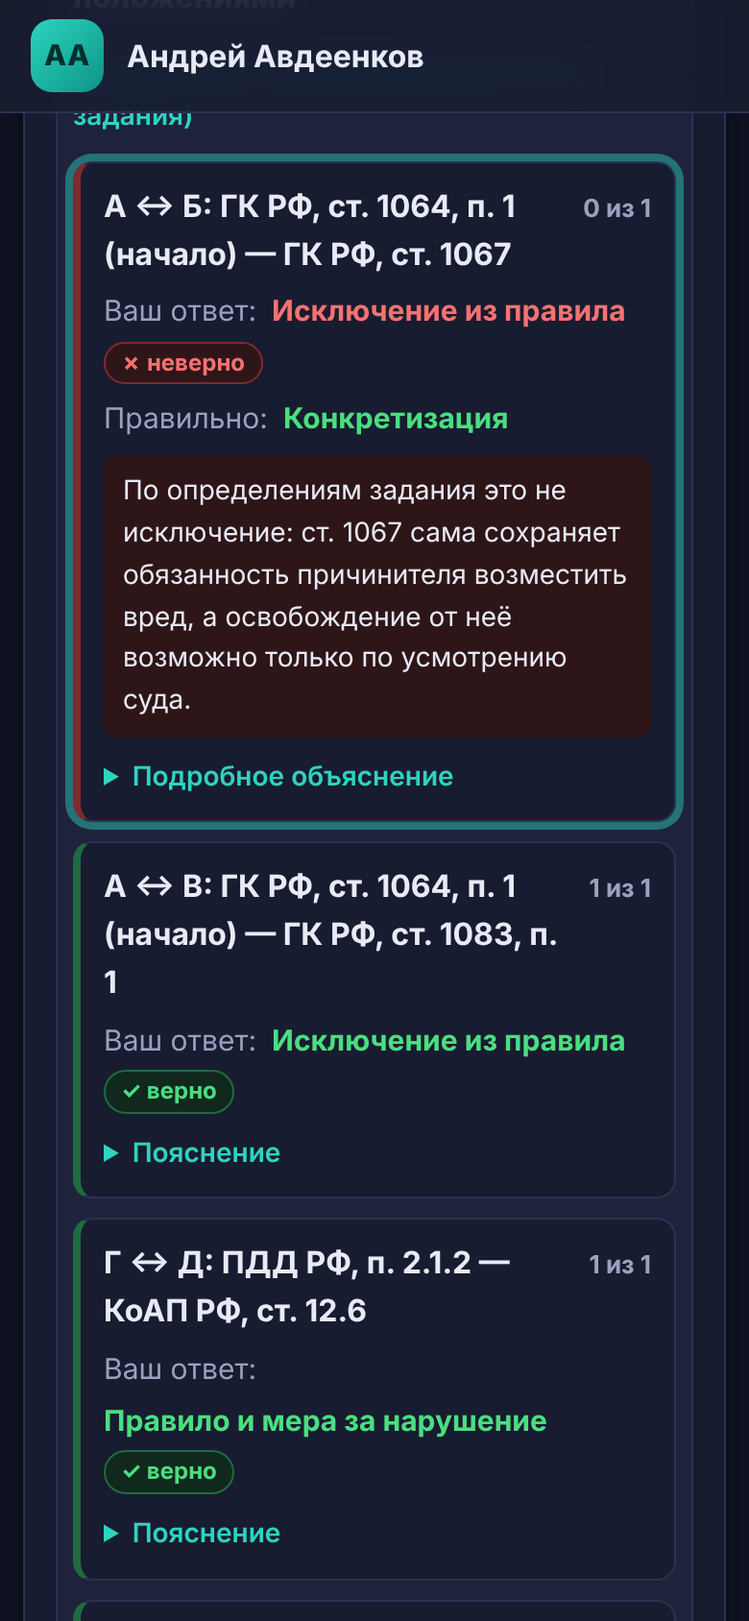
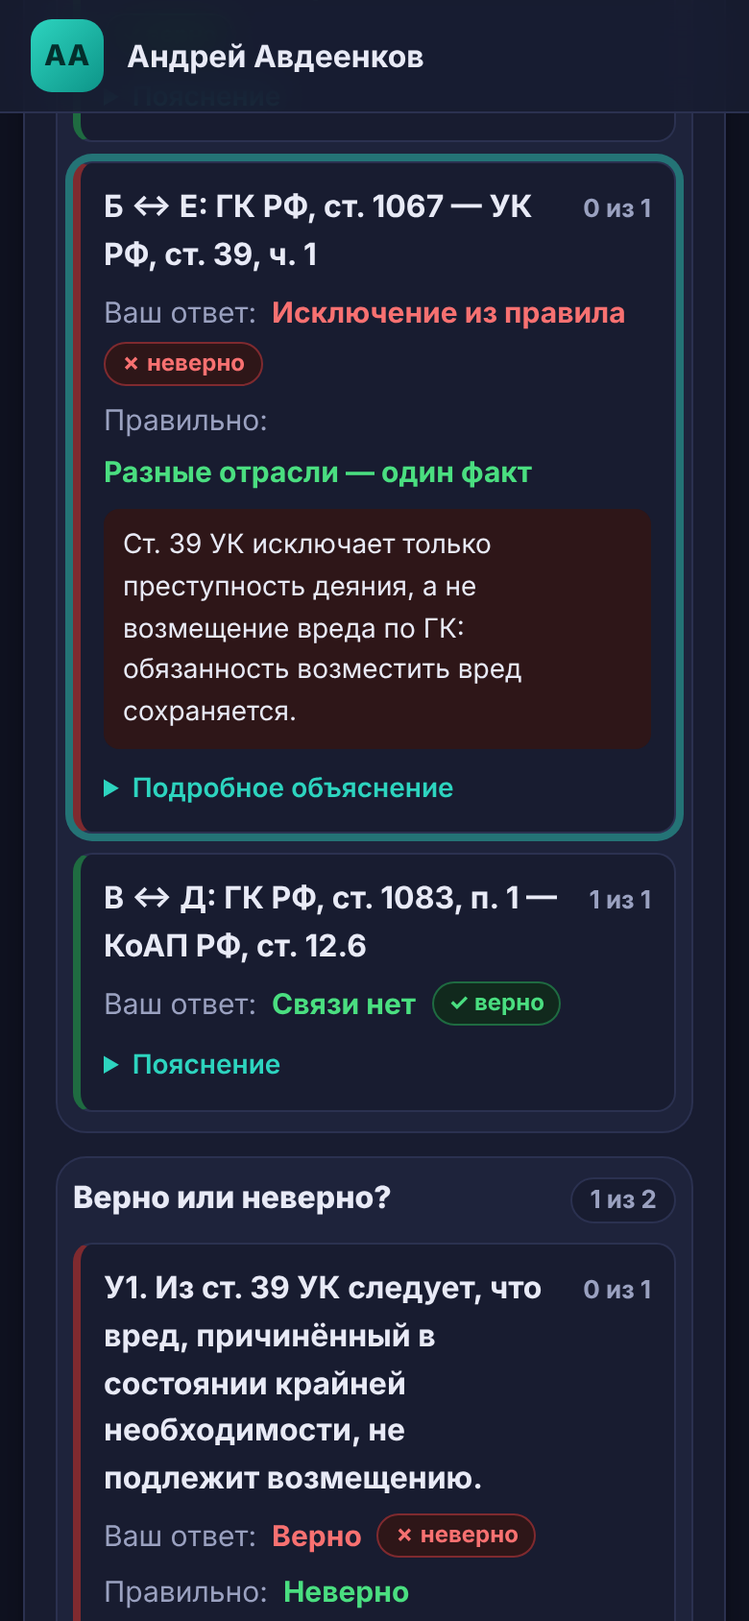
Практикум «Норма права»: правки по решениям после четвёртого этапа
- карта связей: пояснение об авторской типологии и порядке как условии
  упражнения (relationsNote обязателен при упорядоченном правиле);
  пара ст. 1064 — ст. 1067 убрана из автоматической проверки;
- ст. 91 ч. 2 и ст. 8 ч. 4 ТК: уточнённые объяснения, механизм неприменения;
- оценка доводов: единый критерий «обосновывает» — достаточность;
- составное задание: вопрос о превышении законного максимума в графике
  вместо «сверхурочных часов»;
- задание по ст. 89 СК переименовано в IV-9 (номер IV-4 занят).

Claude-Session: https://claude.ai/code/session_01DtU1BYdzbcua2RQZXHQm1D

diff --git a/demo/law-nrm-demo.js b/demo/law-nrm-demo.js
@@ -1198,6 +1198,7 @@ OLY.addTasks([
     tags: ['карта связей', 'общая и специальная норма', 'исключение', 'регулятивная и охранительная норма', 'межотраслевые связи'],
     type: 'link-map',
     question: 'Определите вид связи между положениями в каждой паре.',
+    relationsNote: 'Семь видов связи — авторская учебная типология этого упражнения, а не общепринятая юридическая классификация. Порядок проверки — условие упражнения, нужное для однозначного ответа: в реальной юридической квалификации одна пара норм может быть связана сразу несколькими способами, и ни один порядок не является универсальным.',
     legal: [
       { id: 'gk-1064', role: 'main', act: 'ГК РФ', ref: 'ст. 1064, п. 1 (начало)', verified: false,
         fragments: [{ text: 'Вред, причиненный личности или имуществу гражданина, а также вред, причиненный имуществу юридического лица, подлежит возмещению в полном объеме лицом, причинившим вред. […]' }] },
@@ -1226,21 +1227,6 @@ OLY.addTasks([
     ],
     none: 6,
     pairs: [
-      {
-        id: 'p1', a: 'gk-1064', b: 'gk-1067', key: [4],
-        wrong: {
-          3: {
-            short: 'По определениям задания это не исключение: ст. 1067 сама сохраняет обязанность причинителя возместить вред, а освобождение от неё возможно только по усмотрению суда.',
-            full: 'Исключение в этом задании — норма, которая сама устанавливает последствие, противоположное общему правилу (как п. 1 ст. 1083: вред «возмещению не подлежит»). Ст. 1067 начинается с того же правила, что и п. 1 ст. 1064: вред «должен быть возмещен лицом, причинившим вред». Возможность освободить от возмещения дана суду с учётом обстоятельств — это отступление по усмотрению правоприменителя, которое определение конкретизации прямо охватывает. Границы интерпретации: в литературе ст. 1067 иногда характеризуют как исключение из отдельных принципов деликтной ответственности (например, ответственности за вину или противоправного характера вреда); при иных определениях видов связи такая квалификация возможна. Здесь определения заданы в условии.'
-          },
-          2: 'Ни одно из положений не устанавливает меру принуждения за нарушение правила другого.',
-          1: 'Ст. 1067 определяет крайнюю необходимость, но этого понятия нет в п. 1 ст. 1064.',
-          0: 'Ни одно положение не указывает на другое прямо.',
-          5: 'Обе нормы — гражданского права.',
-          6: 'Связь есть: ст. 1067 регулирует частный случай причинения вреда, охватываемый п. 1 ст. 1064.'
-        },
-        explanation: 'Ст. 1067 — специальная норма для вреда, причинённого в крайней необходимости: она сохраняет последствие п. 1 ст. 1064 (вред возмещает причинитель), но позволяет суду переложить обязанность на третье лицо или освободить от неё. Последствие общей нормы сохраняется по общему правилу, поэтому это конкретизация, а не исключение.'
-      },
       {
         id: 'p2', a: 'gk-1064', b: 'gk-1083', key: [3],
         wrong: {
@@ -1330,9 +1316,9 @@ OLY.addTasks([
         ]
       }
     ],
-    explanation: 'Ст. 1067 конкретизирует общее правило п. 1 ст. 1064, а п. 1 ст. 1083 — исключение из него. П. 2.1.2 ПДД и ст. 12.6 КоАП — правило и мера за его нарушение. Ч. 2 ст. 39 УК определяет понятие, которое использует ч. 1. Ст. 1067 ГК и ст. 39 УК — нормы разных отраслей об одном факте: непреступность деяния не отменяет обязанности возместить вред.',
-    typicalMistake: 'Считать, что ст. 39 УК освобождает и от возмещения вреда; принять ст. 1067 за исключение из ст. 1064.',
-    scoring: { maxPoints: 8, rule: 'components', basis: 'author' }
+    explanation: 'П. 1 ст. 1083 ГК — исключение из общего правила п. 1 ст. 1064 о возмещении вреда. П. 2.1.2 ПДД и ст. 12.6 КоАП — правило и мера за его нарушение. Ч. 2 ст. 39 УК определяет понятие, которое использует ч. 1. Ст. 1067 ГК и ст. 39 УК — нормы разных отраслей об одном факте: непреступность деяния не отменяет обязанности возместить вред.',
+    typicalMistake: 'Считать, что ст. 39 УК освобождает и от возмещения вреда; принять исключение (ст. 1083) за конкретизацию.',
+    scoring: { maxPoints: 7, rule: 'components', basis: 'author' }
   },
   {
     id: 'DEMO-LAW-NRM-009',
@@ -1515,7 +1501,7 @@ OLY.addTasks([
               },
               2: 'Поощрительные нормы устанавливают меры поощрения за полезное поведение; здесь их нет.'
             },
-            explanation: 'Императивная: предел в 40 часов нельзя превысить ни соглашением сторон, ни локальным актом. В литературе такие нормы называют «нормами-максимумами» (иногда — относительно-императивными); в классификации лекции это императивная норма. Договор Ивановой о 36 часах не отступает от нормы, а укладывается в её предел.'
+            explanation: 'Ч. 2 ст. 91 ТК — императивная норма, устанавливающая максимальную нормальную продолжительность рабочего времени: предел в 40 часов нельзя превысить ни соглашением сторон, ни локальным актом. Установление меньшей продолжительности (как в договоре Ивановой) не отступает от нормы, а укладывается в её предел.'
           },
           {
             id: 'a-nature', short: 'П. 4.1 ПВТР',
@@ -1546,14 +1532,15 @@ OLY.addTasks([
         id: 'B', title: 'Часть Б. Краткие ответы', kind: 'short',
         items: [
           {
-            id: 'b-hours', short: 'Часы', kind: 'number',
-            label: 'Если бы Сидоров работал 42 часа в неделю по п. 4.1 ПВТР, сколько часов в неделю были бы сверхурочной работой?',
+            id: 'b-hours', short: 'Превышение', kind: 'number',
+            label: 'На сколько часов в неделю график по п. 4.1 ПВТР превышает законный максимум нормальной продолжительности рабочего времени?',
             key: 2,
             wrong: {
-              '0': 'Работа сверх нормальной продолжительности (40 часов), выполняемая по инициативе работодателя, — сверхурочная, даже если её требует локальный акт.',
-              '42': 'Сверхурочной считается только работа за пределами нормальной продолжительности, а не вся неделя.'
+              '0': 'График превышает законный максимум: 42 часа по ПВТР против не более 40 по ст. 91 ч. 2 ТК.',
+              '42': 'Спрашивается о превышении законного максимума, а не обо всей продолжительности по ПВТР.',
+              '40': '40 часов — сам законный максимум; спрашивается, на сколько график его превышает.'
             },
-            explanation: 'Нормальная продолжительность — не более 40 часов; 2 часа сверх неё — сверхурочная работа.'
+            explanation: '42 − 40 = 2 часа. Это превышение законного максимума в графике, а не выполненная сверхурочная работа: сверхурочной (ст. 99 ТК) считается работа, фактически выполненная по инициативе работодателя за пределами установленной продолжительности рабочего времени. Сидоров такой работы не выполнял — он работал 40 часов в неделю.'
           },
           {
             id: 'b-article', short: 'Статья', kind: 'article',
@@ -1581,7 +1568,7 @@ OLY.addTasks([
               2: 'Неприменение наступает в силу закона, а не после отмены судом.',
               3: 'Учёт мнения профсоюза — отдельное условие. Норма, ухудшающая положение работников по сравнению с законом, не применяется независимо от него.'
             },
-            explanation: 'П. 4.1 ухудшает положение работников по сравнению со ст. 91 ч. 2 ТК, поэтому по ст. 8 ч. 4 не подлежит применению; применяется трудовое законодательство.'
+            explanation: 'П. 4.1 ухудшает положение работников по сравнению со ст. 91 ч. 2 ТК, поэтому по ст. 8 ч. 4 не подлежит применению; вместо него применяется закон. Механизм неприменения: (1) норму локального акта сравнивают с законом и иными актами, содержащими нормы трудового права, коллективным договором, соглашениями; (2) если она ухудшает положение работников, она не подлежит применению — в силу самого закона, без отмены акта или решения суда; формально норма остаётся в тексте ПВТР; (3) вместо неё применяется норма закона (здесь — ст. 91 ч. 2 ТК). Отдельное основание неприменения — несоблюдение порядка учёта мнения представительного органа работников (ст. 372); здесь оно соблюдено, но это не спасает ухудшающую норму.'
           },
           {
             id: 'c-role', short: 'Роль ст. 8 ч. 4',
@@ -1593,7 +1580,7 @@ OLY.addTasks([
               2: 'Декларативные нормы провозглашают цели и задачи; ст. 8 ч. 4 устанавливает конкретное правило выбора нормы.',
               3: 'Учредительные нормы закрепляют основы общественного строя; ст. 8 ч. 4 к ним не относится.'
             },
-            explanation: 'Ст. 8 ч. 4 разрешает противоречие между нормой локального акта и законом в пользу закона — коллизионная норма.'
+            explanation: 'В рамках лекционной классификации ст. 8 ч. 4 — коллизионная норма: она разрешает противоречие между нормой локального акта и законом (иными актами, содержащими нормы трудового права, коллективным договором, соглашением). Механизм: ухудшающая норма локального акта не отменяется, а не подлежит применению — в силу закона, без решения суда; вместо неё применяется норма закона. Норма действует только в одну сторону: улучшающие положение работников локальные нормы применяются.'
           }
         ]
       },
@@ -1609,20 +1596,20 @@ OLY.addTasks([
         conclusion: 'Выговор Сидорову объявлен неправомерно.',
         arguments: [
           {
-            id: 'd1', text: 'Сидоров работал в пределах нормальной продолжительности рабочего времени (40 часов); работа сверх неё по инициативе работодателя — сверхурочная и допускается только в случаях и порядке, установленных ТК.',
+            id: 'd1', text: 'Сидоров трудовых обязанностей не нарушал: он работал в пределах законного максимума (40 часов), норма ПВТР о 42 часах к нему не применяется, а без неисполнения обязанностей нет дисциплинарного проступка.',
             key: { truth: 0, link: 0 },
             wrong: {
               truth: {
                 1: 'По условию Сидоров работает 40 часов в неделю.',
-                2: 'Это верно: нормальная продолжительность — не более 40 часов (ст. 91 ч. 2), работа сверх неё по инициативе работодателя — сверхурочная.'
+                2: 'Это верно: нормальная продолжительность — не более 40 часов (ст. 91 ч. 2), ухудшающая норма ПВТР не применяется (ст. 8 ч. 4), а дисциплинарный проступок — это неисполнение обязанностей (ст. 192 ч. 1).'
               },
               link: {
-                1: 'Довод обосновывает вывод: если обязанности работать 42 часа нет, уход через 8 часов не является неисполнением трудовых обязанностей, а значит, нет дисциплинарного проступка.',
+                1: 'Довод достаточен сам по себе: он содержит всю цепочку — законный максимум, неприменение нормы ПВТР и отсутствие проступка. Других доводов для вывода не нужно.',
                 2: 'Довод подтверждает, а не опровергает вывод.',
                 3: 'Довод относится к главному вопросу — была ли у Сидорова обязанность работать дольше.'
               }
             },
-            explanation: 'Обязанности работать 42 часа у Сидорова не было: п. 4.1 ПВТР не применяется, а работа сверх нормальной продолжительности — сверхурочная. Значит, нет неисполнения трудовых обязанностей — нет дисциплинарного проступка.'
+            explanation: 'Довод содержит всю цепочку: обязанности работать 42 часа нет (п. 4.1 ПВТР не применяется), значит, уход через 8 часов не является неисполнением трудовых обязанностей и дисциплинарного проступка нет. Приняв его и факты условия, можно сделать вывод без других доводов — поэтому «обосновывает».'
           },
           {
             id: 'd2', text: 'П. 4.1 ПВТР обязателен для Сидорова, потому что Правила приняты с учётом мнения профсоюзной организации.',
@@ -1654,7 +1641,7 @@ OLY.addTasks([
                 3: 'Довод относится к вопросу: он называет условие правомерности выговора.'
               }
             },
-            explanation: 'Довод верен и относится к вопросу: он называет условие дисциплинарной ответственности. Но вывод из него следует только вместе с доводом о том, что обязанности работать 42 часа не было.'
+            explanation: 'Довод верен и относится к вопросу: он называет условие дисциплинарной ответственности. Но вывод из него следует только вместе с анализом того, была ли у Сидорова обязанность работать 42 часа (довод 1), — сам по себе он вывод не обосновывает.'
           },
           {
             id: 'd4', text: 'Сидоров ежедневно уходил с работы через 8 часов.',
@@ -1707,7 +1694,7 @@ OLY.addTasks([
         ]
       }
     ],
-    explanation: 'Ст. 91 ч. 2 ТК — императивная норма-максимум. П. 4.1 ПВТР — локальная норма права, но она ухудшает положение работников по сравнению с законом и по ст. 8 ч. 4 не подлежит применению (коллизионная норма); применяется ст. 91 ч. 2. Работа сверх 40 часов по инициативе работодателя — сверхурочная (ст. 99 ТК). Значит, Сидоров обязанности не нарушал, дисциплинарного проступка нет, выговор неправомерен.',
+    explanation: 'Ст. 91 ч. 2 ТК — императивная норма-максимум. П. 4.1 ПВТР — локальная норма права, но она ухудшает положение работников по сравнению с законом и по ст. 8 ч. 4 не подлежит применению (коллизионная норма); применяется ст. 91 ч. 2. Работа, фактически выполненная сверх 40 часов по инициативе работодателя, была бы сверхурочной (ст. 99 ТК); сам по себе график с 42 часами такой работы не создаёт. Сидоров работал в пределах законного максимума, обязанности не нарушал, дисциплинарного проступка нет, выговор неправомерен.',
     typicalMistake: 'Считать ст. 91 ч. 2 диспозитивной из-за 36-часовой недели Ивановой; считать учёт мнения профсоюза достаточным для применения ухудшающей нормы.',
     scoring: { maxPoints: 19, rule: 'components', basis: 'author' }
   }

diff --git a/js/olymp/types/argument-check.js b/js/olymp/types/argument-check.js
@@ -9,6 +9,9 @@
  *   2) связь с выводом — оценивается так, как если бы довод был верен:
  *      обосновывает вывод; относится к вопросу, но сам вывод не обосновывает;
  *      опровергает вывод (обосновывает противоположный); не относится к вопросу.
+ *      Критерий «обосновывает» — достаточность: принятый довод вместе с фактами условия
+ *      ведёт к выводу без других доводов. Довод, который лишь поддерживает вывод в ряду
+ *      других, — «относится, но сам вывод не обосновывает» (определения — LINK[i].definition).
  * Так различаются три свойства довода: правильность, относимость к вопросу и
  * способность обосновать конкретный вывод. Решения не зависят друг от друга,
  * поэтому одна ошибка не снимает баллы дважды.
@@ -46,10 +49,14 @@
     { label: 'Неверен: противоречит праву или теории', short: 'Неверен (право)' }
   ];
   var LINK = [
-    { label: 'Обосновывает вывод', short: 'Обосновывает' },
-    { label: 'Относится к вопросу, но сам вывод не обосновывает', short: 'Относится, недостаточен' },
-    { label: 'Опровергает вывод (обосновывает противоположный)', short: 'Опровергает' },
-    { label: 'Не относится к вопросу', short: 'Не относится' }
+    { label: 'Обосновывает вывод', short: 'Обосновывает',
+      definition: 'довод достаточен сам по себе: если принять его, то вместе с фактами условия и общими определениями теории права вывод следует без других доводов и без дополнительного анализа ситуации' },
+    { label: 'Относится к вопросу, но сам вывод не обосновывает', short: 'Относится, недостаточен',
+      definition: 'довод касается вопроса и может быть одним из аргументов в пользу вывода (или против него), но вывод следует из него только вместе с другими доводами — или не следует вовсе' },
+    { label: 'Опровергает вывод (обосновывает противоположный)', short: 'Опровергает',
+      definition: 'если принять довод, то вместе с фактами условия и общими определениями теории права следует противоположный вывод' },
+    { label: 'Не относится к вопросу', short: 'Не относится',
+      definition: 'от истинности довода ответ на вопрос не зависит' }
   ];
 
   function isIndex(v, n) { return Number.isInteger(v) && v >= 0 && v < n; }

diff --git a/js/olymp/ui/views/arguments.js b/js/olymp/ui/views/arguments.js
@@ -26,9 +26,10 @@
     d.appendChild(el('summary', null, 'Как оценивать довод'));
     [
       'Правильность: соответствует ли довод фактам ситуации и праву (тексту нормы, теории). Если неверен — укажите, что именно он нарушает.',
-      'Связь с выводом оценивается так, как если бы довод был верен. «Обосновывает» — из довода следует вывод. «Относится, но сам вывод не обосновывает» — довод касается вопроса, но его недостаточно или он не решает вопрос. «Опровергает» — из довода следует противоположное. «Не относится» — от довода ответ на вопрос не зависит.',
+      'Связь с выводом оценивается так, как если бы довод был верен. Главный критерий — достаточность: можно ли, приняв этот довод, факты условия и общие определения теории права, сделать вывод, не опираясь на другие доводы и не проводя дополнительного анализа ситуации.'
+    ].concat(A.LINK.map(function (l) { return '«' + l.label + '» — ' + l.definition + '.'; })).concat([
       'Баллы: по 1 за правильность и за связь с выводом у каждого довода. Решения независимы: ошибка в одном не снимает балл за другое. Если довод верно признан неверным, но указано не то основание (факты вместо права или наоборот), — ½.'
-    ].forEach(function (t) { d.appendChild(el('p', 'nrm-more__text', t)); });
+    ]).forEach(function (t) { d.appendChild(el('p', 'nrm-more__text', t)); });
     return d;
   }
 

diff --git a/js/olymp/types/link-map.js b/js/olymp/types/link-map.js
@@ -12,6 +12,7 @@
  *   legal: [{ id: 'gk-1064', role: 'main' | 'reference', act, ref, verified, fragments }],
  *   relations: [{ label: 'Исключение из общего правила', definition: '…' }, …],   // 3–8
  *   none: 6,                              // номер вида «связи нет»
+ *   relationsNote?: '…',                 // пояснение о статусе типологии и порядка (показывается в условии)
  *   ordered?: true,                       // упорядоченное правило: выбирается первый подходящий вид —
  *                                         // так виды связи взаимно исключают друг друга
  *   pairs: [{ id, a: 'gk-1064', b: 'gk-1083', key: [3], partial?, wrong: {…}, explanation }],
@@ -67,6 +68,8 @@
     if (!Number.isInteger(task.none) || !task.relations[task.none]) errors.push('none — номер вида «связи нет» в relations');
     else if (task.ordered === true && task.none !== task.relations.length - 1) errors.push('при упорядоченном правиле «связи нет» — последний вид');
     if (task.ordered !== undefined && typeof task.ordered !== 'boolean') errors.push('ordered — true или false');
+    if (task.relationsNote !== undefined && !R.isText(task.relationsNote)) errors.push('relationsNote — строка');
+    if (task.ordered === true && !R.isText(task.relationsNote)) errors.push('при упорядоченном правиле нужно relationsNote — объяснить ученику, что порядок — условие упражнения');
     if (!Array.isArray(task.pairs) || task.pairs.length < 2) return errors.concat('pairs — не меньше двух пар');
     task.pairs.forEach(function (pair, i) {
       var name = 'pairs[' + i + ']';

diff --git a/js/olymp/ui/views/links.js b/js/olymp/ui/views/links.js
@@ -58,8 +58,9 @@
     var d = el('details', 'nrm-more nrm-rel-help');
     d.open = true;
     d.appendChild(el('summary', null, 'Виды связи (определения для этого задания)'));
+    if (task.relationsNote) d.appendChild(el('p', 'nrm-more__text nrm-rel-note', task.relationsNote));
     if (task.ordered) {
-      d.appendChild(el('p', 'nrm-more__text', 'Проверяйте виды связи по порядку и выбирайте первый подходящий — так ответ однозначен, даже если пара формально подходит под два вида.'));
+      d.appendChild(el('p', 'nrm-more__text', 'В этом упражнении проверяйте виды связи по порядку и выбирайте первый подходящий — так ответ однозначен, даже если пара формально подходит под два вида.'));
     }
     var dl = el('dl', 'nrm-rel-list');
     task.relations.forEach(function (r, i) {

diff --git a/docs/drafts/pr-law-nrm-spec.md b/docs/drafts/pr-law-nrm-spec.md
@@ -30,7 +30,7 @@
 | 9 | М1: модель К / Т / Р — утверждена | § 4.1 |
 | 10 | М2: типология ошибок — содержательный тип и происхождение оцениваются раздельно | § 3.4 |
 | 11 | М3: анализ по отдельно заданным подходам; М4: неоднозначные классификации не оцениваются | § 2.3, § 3.2 |
-| 12 | М5: ориентир 84 мин (после замены части В в V-2 на IV-4 — ≈87 мин, в пределах 75–90) с проверкой на учениках; М7: блоки доступны сразу, порядок рекомендуется; М8: ключи в клиентском коде допустимы | § 6 |
+| 12 | М5: ориентир 84 мин (после замены части В в V-2 на IV-9 — ≈87 мин, в пределах 75–90) с проверкой на учениках; М7: блоки доступны сразу, порядок рекомендуется; М8: ключи в клиентском коде допустимы | § 6 |
 | 13 | Распознавание рассуждения проверяется сейчас; самостоятельное построение аргумента — отложено | § 1.1, § 7 |
 | 14 | Отвлекающие варианты и независимость элементов — по правилам § 3.5; порядок заданий — без перекрёстных подсказок (§ 6.7) | § 3.5, § 6.7 |
 
@@ -131,8 +131,8 @@
 | **Ф3** | **Краткий самостоятельный ответ** | вводит номер статьи, число, термин | совпадение после нормализации (§ 3.3) | пустое поле; ответы закрытые и однозначные |
 | **Ф4** | **Систематизация** | распределяет фрагменты нескольких актов (или правила) по ролям или категориям; определения категорий даются в условии | роль или категория каждой позиции | вариантов больше, чем позиций; роли повторяются; есть «не относится». Категории — по одному основанию или с явно заданным двухшаговым критерием (например: норма или индивидуальный правовой акт → вид нормы) |
 | **Ф5** | **Поиск ошибки** | отмечает ошибочные шаги; для каждого указывает происхождение ошибки и её содержательный тип; собирает корректное утверждение | отмеченные шаги; происхождение (и шаг с исходной ошибкой); содержательный тип; слоты конструктора | верные шаги — ловушки; происхождение и тип — два независимых решения (§ 3.4) |
-| **Ф6** | **Карта связей** | для пар положений определяет вид связи по определениям и упорядоченному правилу из условия | вид связи для каждой пары | 7 видов связи, включая «связи нет»; взаимоисключаемость — упорядоченным правилом и разграничивающими признаками (таблица: `pr-law-nrm-links-table.md`) |
-| **Ф7** | **Оценка доводов** | для каждого довода принимает два независимых решения: (1) правильность — верен / неверен по фактам / неверен по праву или теории; (2) связь с выводом при допущении, что довод верен, — обосновывает / относится, но сам вывод не обосновывает / опровергает / не относится | оба решения по каждому доводу | различаются правильность, относимость и способность обосновать вывод; 3 × 4 = 12 сочетаний на довод; решения независимы — одна ошибка не снимает балл дважды |
+| **Ф6** | **Карта связей** | для пар положений определяет вид связи по определениям и упорядоченному правилу из условия | вид связи для каждой пары | 7 видов связи, включая «связи нет» — авторская учебная типология; взаимоисключаемость — упорядоченным правилом (условие упражнения, объясняется ученику) и разграничивающими признаками; пары, допускающие две обоснованные квалификации, в автоматическую проверку не берутся (таблица: `pr-law-nrm-links-table.md`) |
+| **Ф7** | **Оценка доводов** | для каждого довода принимает два независимых решения: (1) правильность — верен / неверен по фактам / неверен по праву или теории; (2) связь с выводом при допущении, что довод верен, — обосновывает / относится, но сам вывод не обосновывает / опровергает / не относится. **Критерий «обосновывает» — достаточность:** принятый довод вместе с фактами условия и общими определениями теории ведёт к выводу без других доводов и без дополнительного анализа ситуации; довод, поддерживающий вывод в ряду других, — «относится, но сам вывод не обосновывает» | оба решения по каждому доводу | различаются правильность, относимость и способность обосновать вывод; 3 × 4 = 12 сочетаний на довод; решения независимы — одна ошибка не снимает балл дважды |
 | **Ф8** | **Конструктор формулировки** | заполняет пропуски в юридическом утверждении (каждый слот — 3–5 вариантов) | вариант в каждом слоте | слоты независимы: 3 слота по 4 варианта — 1,6 % на угадывание |
 | Ф9 | Множественный выбор (не более одного задания) | оценивает каждое из 6 положений | совпадение по каждому положению | каждое положение — отдельный кейс |
 | — | ~~Один ответ из четырёх~~ | — | не используется | — |
@@ -331,7 +331,7 @@
 | IV-2 | ТК, ст. 122 ч. 2: гипотеза и диспозиция; число предписаний | Ф2 + Ф3 | 1 | 6 |
 | IV-3 ★ | Конституция, ст. 38 ч. 3 → СК, ст. 87, 115 | Ф2 + Ф4 + Ф7 | 2 | 10 |
 | IV-5 | КоАП, ст. 12.6 → ПДД, п. 2.1.2: бланкетный способ по лекции | Ф2 + Ф6 | 2 | 7 |
-| IV-4 ★ | СК, ст. 89 п. 2: сложная гипотеза с альтернативным условием (обстоятельства / управомоченные лица); заменяет часть В прежнего V-2 | Ф2 + Ф7 | 2 | 6 |
+| IV-9 ★ | СК, ст. 89 п. 2: сложная гипотеза с альтернативным условием (обстоятельства / управомоченные лица); заменяет часть В прежнего V-2 | Ф2 + Ф7 | 2 | 6 |
 | V-2 ★ | УК, ст. 125: ошибки при любом подходе + роль описания деяния в каждом подходе | Ф5 + Ф8 | 3 | 7 |
 | | Вводная инструкция с примером | | | 3 |
 | | **Итого** | | 4 / 6 / 2 | **≈87** |
@@ -399,7 +399,7 @@
 | III-2 → III-3 | объяснение III-2 говорило, что «отсутствие оговорки само по себе не доказывает императивность» — это прямой ответ на довод П4 в III-3 | из объяснения III-2 убрано обратное утверждение; III-2 объясняет только, как оговорка делает норму диспозитивной |
 | IV-1 → IV-3 | объяснение IV-1 называло решающий критерий «взыскание — санкция, потому что срабатывает при непредоставлении содержания (нарушении)», а это решение роли фрагмента В в IV-3 | в IV-1 санкция квалифицируется по классификации лекции без указания на признак «реакция на нарушение»; критерий раскрывается только в разборе IV-3 |
 | IV-3 → V-2 | объяснение ошибки в IV-3 упоминало уголовную ответственность за оставление в опасности (ст. 125) | упоминание убрано |
-| V-2, часть В → V-2, часть Б | при свободном переходе условие разметки ст. 125 «в подходе охранительной нормы» само называло описание деяния гипотезой охранительной нормы — ответ слота [1] части Б | разметка ст. 125 убрана; навык разметки сложной гипотезы с альтернативным условием проверяется в IV-4 на п. 2 ст. 89 СК, где подход задавать не нужно |
+| V-2, часть В → V-2, часть Б | при свободном переходе условие разметки ст. 125 «в подходе охранительной нормы» само называло описание деяния гипотезой охранительной нормы — ответ слота [1] части Б | разметка ст. 125 убрана; навык разметки сложной гипотезы с альтернативным условием проверяется в IV-9 на п. 2 ст. 89 СК, где подход задавать не нужно |
 | IV-2 → V-1 (блок В) | V-1 строился на той же ст. 122 ТК, а IV-2 уже разбирает отсутствие санкции в ней | V-1 переводится на другой материал |
 | III-7 (блок Б) → VI-3 (блок Г) | III-7 раскрывает связь «ст. 1066 — исключение из ст. 1064» и роль ст. 37 УК, которые VI-3 проверял как связи | VI-3 переведён на связку ст. 1064 — ст. 1067 ГК — ст. 39 УК |
 | III-3 → V-3 (блок В) | III-3 учит различать два определения диспозитивности; V-3 проверяет ту же ошибку | допустимо как перенос принципа: в V-3 другой материал (ст. 80 ТК) и новый поворот — ч. 1 допускает соглашение о досрочном расторжении, но не отмену права |
@@ -460,7 +460,7 @@
 | СК, ст. 87 пп. 1–2 | IV-3 ★ | B |
 | СК, ст. 115 п. 2 | IV-3 ★ | B; ред. Федерального закона от 29.07.2018 № 224-ФЗ. Затрагивают ли статью изменения кодекса, отмеченные КонсультантПлюс датой 15.05.2026, — не установлено |
 | УК, ст. 125 (без санкции); ст. 20 | V-2 ★ | B; перечень ч. 2 ст. 20 виден не полностью |
-| СК, ст. 89 пп. 1–2 | IV-4 ★ | C — текст приведён по памяти, к сверке |
+| СК, ст. 89 пп. 1–2 | IV-9 ★ | C — текст приведён по памяти, к сверке |
 | ГК, ст. 1064 п. 1, ст. 1066; УК, ст. 37 (содержание) | III-7 ★, VI-3 | B |
 | ГК, ст. 1057 | I-1 ★ | B |
 | ТК, ст. 8, 80, 91, 92, 122 | разные | B |

diff --git a/docs/drafts/pr-law-nrm-links-table.md b/docs/drafts/pr-law-nrm-links-table.md
@@ -1,6 +1,12 @@
 # Карта связей (Ф6): виды связи между положениями — на утверждение
 
-Статус: **проект, ждёт утверждения преподавателем.** Демо-задание `DEMO-LAW-NRM-008` уже построено по этой таблице. Тексты норм не сверены с официальными источниками — задание остаётся демонстрационным.
+Статус: **утверждено преподавателем как авторская учебная типология** (не общепринятая юридическая классификация). Демо-задание `DEMO-LAW-NRM-008` построено по этой таблице; тексты норм не сверены — задание остаётся демонстрационным.
+
+**Решения преподавателя (5-й этап):**
+- упорядоченное правило сохраняется для технической однозначности; ученику в условии объясняется, что типология авторская, а порядок — условие конкретного упражнения, а не универсальный принцип квалификации (поле `relationsNote`, обязательно при `ordered: true`);
+- бланкетность отдельным восьмым видом не вводится;
+- пара ст. 1064 — ст. 1067 ГК **убрана из автоматической проверки**; она переносится в задание с оценкой конкурирующих аргументов (VI-3, часть «Оценка доводов»): почему ст. 1067 можно интерпретировать как специальное регулирование и в каком смысле она допускает исключения;
+- остальные пары утверждены предварительно — при условии сверки текстов и юридических интерпретаций.
 
 ## Как обеспечена взаимоисключаемость
 
@@ -25,7 +31,7 @@
 | 6 | **Разные отрасли — один факт** | нормы разных отраслей связывают с одним и тем же фактом свои последствия, не уточняя и не отменяя последствий другой отрасли | ст. 1067 ГК ↔ ч. 1 ст. 39 УК (крайняя необходимость) | разные отрасли — один факт | исключение: ст. 39 УК «освобождает» от ответственности | Ст. 39 УК исключает только преступность деяния и не касается гражданско-правового последствия — возмещения вреда. Значит, признака исключения (противоположное последствие **того же** правила) нет |
 | 7 | **Связи нет** | положения регулируют разные отношения и не связаны ни одним из перечисленных способов | п. 1 ст. 1083 ГК ↔ ст. 12.6 КоАП | связи нет | — | Положения не пересекаются ни по предмету, ни по факту. Вид стоит последним, поэтому он выбирается, только если не подошёл ни один другой |
 
-## Что решить преподавателю
+## Что было вынесено на решение (решено, см. выше)
 
 1. Утвердить набор из семи видов и определения в формулировках из таблицы (или изменить их).
 2. Утвердить упорядоченное правило как механизм однозначности.

diff --git a/docs/drafts/pr-law-nrm-samples.md b/docs/drafts/pr-law-nrm-samples.md
@@ -24,7 +24,7 @@
 | 4 | III-7. ГК, ст. 1066 | блок Б | Ф1 (отбор) + Ф3 + Ф8 | 3 | 10 / 2 / 3 | 10 |
 | 5 | IV-3. Конституция, ст. 38 ч. 3 → СК, ст. 87, 115 | обязательная | Ф2 + Ф4 + Ф7 | 2 | 8 / 3 / 6 | 10 |
 | 6 | V-2. Ошибка юриста: ст. 125 УК | обязательная | Ф5 + Ф8 | 3 | — / — / 11 | 7 |
-| 7 | IV-4. СК, ст. 89 п. 2 (заменяет часть В прежнего V-2) | обязательная | Ф2 + Ф7 | 2 | 5 / 4 / 2 | 6 |
+| 7 | IV-9. СК, ст. 89 п. 2 (заменяет часть В прежнего V-2) | обязательная | Ф2 + Ф7 | 2 | 5 / 4 / 2 | 6 |
 
 **Обозначения в ключах:**
 - ✓ — верно, полный балл;
@@ -289,7 +289,7 @@
 
 **Обязательная часть · уровень 3 · навыки Н8, Н9 · 7 мин · 11 баллов (Р 11)**
 
-> Часть В (разметка ст. 125 в подходе «охранительной нормы») убрана: её условие само называло описание деяния гипотезой охранительной нормы и при свободном переходе раскрывало ответ слота [1] части Б. Разметка сложной гипотезы с альтернативным условием проверяется в образце 7 (IV-4).
+> Часть В (разметка ст. 125 в подходе «охранительной нормы») убрана: её условие само называло описание деяния гипотезой охранительной нормы и при свободном переходе раскрывало ответ слота [1] части Б. Разметка сложной гипотезы с альтернативным условием проверяется в образце 7 (IV-9).
 
 ### Текст для ученика
 
@@ -330,7 +330,7 @@
 
 ---
 
-## Образец 7. IV-4 — СК РФ, ст. 89 п. 2
+## Образец 7. IV-9 — СК РФ, ст. 89 п. 2
 
 **Обязательная часть · уровень 2 · навыки Н6, Н7 · 6 мин · 11 баллов (К 5, Т 4, Р 2)** · реализован в демо (`DEMO-LAW-NRM-004`)
 

diff --git a/docs/drafts/pr-law-nrm-sources-register.md b/docs/drafts/pr-law-nrm-sources-register.md
@@ -47,7 +47,7 @@
 | 14 | ПДД РФ (утв. Постановлением Совета Министров — Правительства РФ от 23.10.1993 № 1090), п. 2.1.2 | полностью | IV-5 | C | действующая редакция п. 2.1.2 |
 | 15 | УК РФ, ст. 125 | диспозиция (санкция — «[…]») | V-2 ★ | B | — |
 | 16 | УК РФ, ст. 19, 20 ч. 1–2, 21 | возраст и вменяемость; что ст. 125 не входит в ч. 2 ст. 20 | V-2 ★ (разбор; после замены части В — не используется в демо) | B | полный перечень ч. 2 ст. 20 |
-| 16а | СК РФ, ст. 89 пп. 1–2 | обязанность супругов поддерживать друг друга; право на алименты | IV-4 ★ | C | весь текст п. 2 (приведён по памяти) |
+| 16а | СК РФ, ст. 89 пп. 1–2 | обязанность супругов поддерживать друг друга; право на алименты | IV-9 ★ | C | весь текст п. 2 (приведён по памяти) |
 
 ## 2. Дополнительные блоки
 
